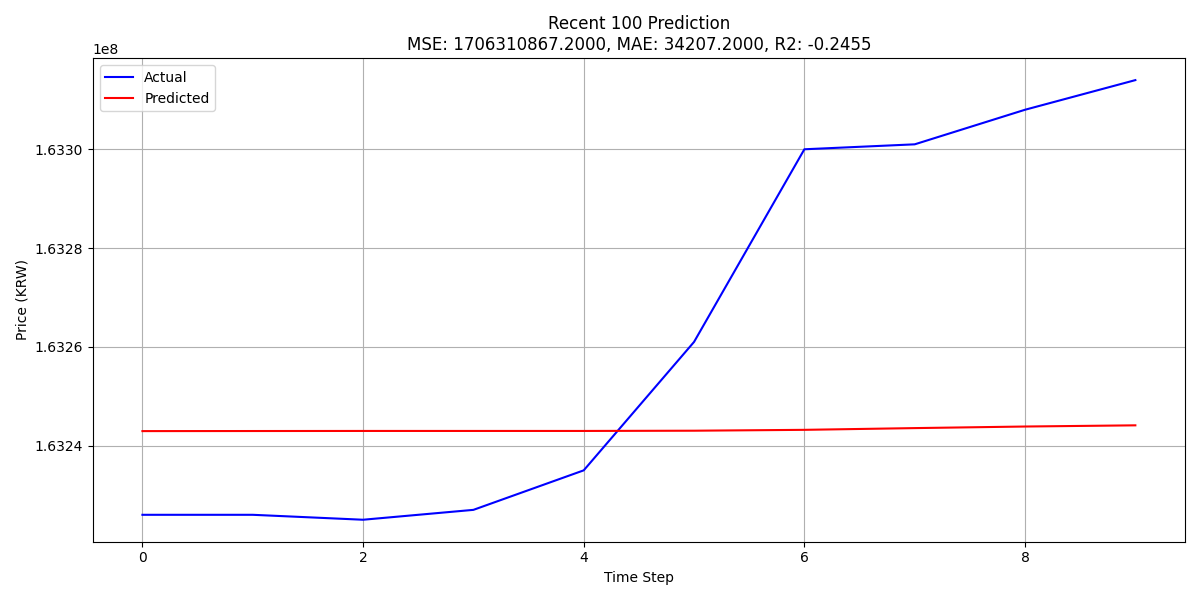
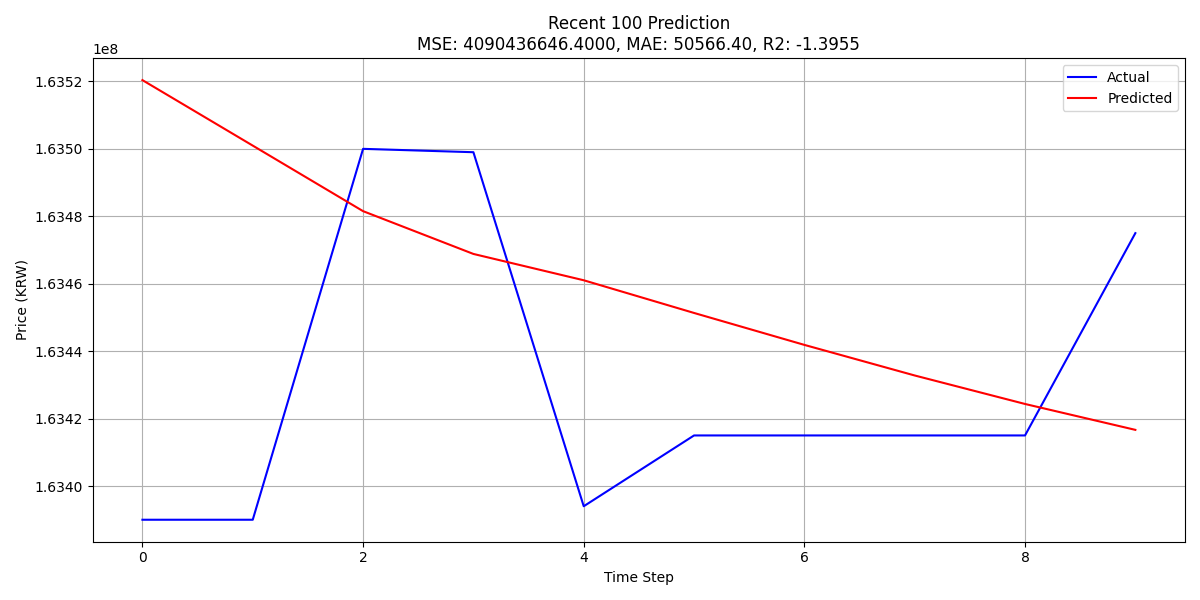
[feat] 재학습 모델의 성능이 안좋아서 기존에 테스트 훈련으로 생성된 모델 사용하도록 변경, 관련 데이터들도 모두 이관될 수 있게 하였다.

diff --git a/app/services/predictor.py b/app/services/predictor.py
@@ -6,6 +6,8 @@ from app.models.lstm_model import LSTMModel
 from app.models.xgb_model import XGBModel
 from app.services.data_loader import fetch_upbit_data
 from sklearn.metrics import mean_squared_error, mean_absolute_error, r2_score
+import numpy as np
+import os
 
 model_dict = {
     "lstm": LSTMModel,
@@ -29,15 +31,22 @@ def get_price_prediction(model: str) -> dict:
     except Exception as e:
         return {"error": f"예측 중 오류 발생: {str(e)}"}
 
-def get_recent_prediction_plot(model: str = "lstm", count: int = 300) -> str:
+
+def get_recent_prediction_plot(model: str = "lstm", count: int = 300, use_experiment: bool = False) -> str:
+    if use_experiment:
+        experiment_dir = f"results/lstm/long_seq_high_hidden/prediction.png"
+        if os.path.exists(experiment_dir):
+            return experiment_dir
+
+
+    # fallback: 예측 직접 계산
     df = fetch_upbit_data(count=count)
-    if df is None or len(df) < 10:
+    if df is None or len(df) < 100:
         raise ValueError("데이터 부족")
 
     model_class = model_dict[model]()
     model_class.load()
 
-    # 전체 시퀀스로 예측
     close = df['close'].values.reshape(-1, 1)
     scaled = model_class.scaler.transform(close)
 
@@ -45,7 +54,7 @@ def get_recent_prediction_plot(model: str = "lstm", count: int = 300) -> str:
     x_data = []
     for i in range(len(scaled) - seq_len):
         x_data.append(scaled[i:i+seq_len])
-    x_tensor = torch.tensor(x_data).float()
+    x_tensor = torch.tensor(np.array(x_data)).float()
 
     with torch.no_grad():
         y_pred = model_class.model(x_tensor).numpy()
@@ -53,17 +62,18 @@ def get_recent_prediction_plot(model: str = "lstm", count: int = 300) -> str:
     y_pred_rescaled = model_class.scaler.inverse_transform(y_pred)
     y_true_rescaled = close[seq_len:]
 
-    # 성능 지표 출력
     mse = mean_squared_error(y_true_rescaled, y_pred_rescaled)
     mae = mean_absolute_error(y_true_rescaled, y_pred_rescaled)
     r2 = r2_score(y_true_rescaled, y_pred_rescaled)
-    print(mse, r2)
+
+
+    print(f"[DEBUG] Prediction MSE: {mse:.4f}, MAE: {mae:.2f}, R2: {r2:.4f}")
 
     # 시각화 저장
     plt.figure(figsize=(12, 6))
     plt.plot(y_true_rescaled, label="Actual", color="blue")
     plt.plot(y_pred_rescaled, label="Predicted", color="red")
-    plt.title(f"Recent {count} Prediction\nMSE: {mse:.4f}, MAE: {mae:.4f}, R2: {r2:.4f}")
+    plt.title(f"Recent {count} Prediction\nMSE: {mse:.4f}, MAE: {mae:.2f}, R2: {r2:.4f}")
     plt.xlabel("Time Step")
     plt.ylabel("Price (KRW)")
     plt.legend()

diff --git a/scripts/promote_best_model.py b/scripts/promote_best_model.py
@@ -1,0 +1,44 @@
+# scripts/promote_best_model.py
+import os
+import shutil
+import json
+from datetime import datetime
+
+EXPERIMENT_NAME = "long_seq_high_hidden"  # 수동 선택 or sys.argv로 받게 변경 가능
+EXPERIMENT_DIR = f"results/lstm/{EXPERIMENT_NAME}"
+MODEL_SRC = os.path.join(EXPERIMENT_DIR, "model.pt")
+SCALER_SRC = os.path.join(EXPERIMENT_DIR, "scaler.pkl")
+METRICS_SRC = os.path.join(EXPERIMENT_DIR, "metrics.txt")
+
+MODEL_DST = "model_lstm.pt"
+SCALER_DST = "scaler_lstm.pkl"
+INFO_DST = "model_info.json"
+
+if not os.path.exists(MODEL_SRC) or not os.path.exists(SCALER_SRC):
+    raise FileNotFoundError("❌ 모델 또는 스케일러 파일이 존재하지 않습니다.")
+
+# 파일 복사
+shutil.copyfile(MODEL_SRC, MODEL_DST)
+shutil.copyfile(SCALER_SRC, SCALER_DST)
+
+# 지표 추출
+metrics = {}
+if os.path.exists(METRICS_SRC):
+    with open(METRICS_SRC, "r", encoding="utf-8") as f:
+        for line in f:
+            key, val = line.strip().split(":")
+            metrics[key.strip()] = float(val.strip())
+
+# model_info.json 생성
+model_info = {
+    "source_experiment": EXPERIMENT_NAME,
+    "MSE": metrics.get("MSE"),
+    "MAE": metrics.get("MAE"),
+    "R2": metrics.get("R2"),
+    "last_updated": datetime.now().strftime("%Y-%m-%d %H:%M:%S")
+}
+
+with open(INFO_DST, "w", encoding="utf-8") as f:
+    json.dump(model_info, f, indent=2, ensure_ascii=False)
+
+print(f"✅ 모델 및 정보가 프로덕션용으로 복사되었습니다 → {MODEL_DST}, {INFO_DST}")

diff --git a/app/routers/model.py b/app/routers/model.py
@@ -1,6 +1,8 @@
 # app/routers/model.py
 from fastapi import APIRouter, Query
-from fastapi.responses import FileResponse
+from fastapi.responses import FileResponse, JSONResponse
+import os
+import json
 from app.services.predictor import get_price_prediction ,get_recent_prediction_plot
 
 router = APIRouter()
@@ -26,7 +28,9 @@ def train_model(model: str):
 @router.get("/predict/plot")
 def predict_plot(
     model: str = Query("lstm", enum=["lstm", "xgb"], description="모델 이름 (lstm 등)"),
-    count: int = Query(100, ge=10, le=500, description="최근 N개 포인트")
+    count: int = Query(300, ge=10, le=500, description="최근 N개 포인트"),
+    use_experiment: bool = Query(False, description="실험 결과 그래프를 사용할지 여부 (True 시 고정된 prediction.png 반환)")
 ):
-    plot_path = get_recent_prediction_plot(model=model, count=count)
+    plot_path = get_recent_prediction_plot(model=model, count=count, use_experiment=use_experiment)
     return FileResponse(plot_path, media_type="image/png")
+

diff --git a/scripts/config_lstm.py b/scripts/config_lstm.py
@@ -1,7 +1,7 @@
 # LSTM 모델 학습용 설정값 (한 곳에서 관리)
 # long_seq_high_hidden 실험 결과 적용(채택함)
 
-SEQ_LEN = 90        # 시퀀스 길이
+SEQ_LEN = 30        # 시퀀스 길이
 HIDDEN_SIZE = 128    # LSTM 은닉층 크기
 NUM_LAYERS = 2      # LSTM 층 수
 LR = 0.001          # 학습률
